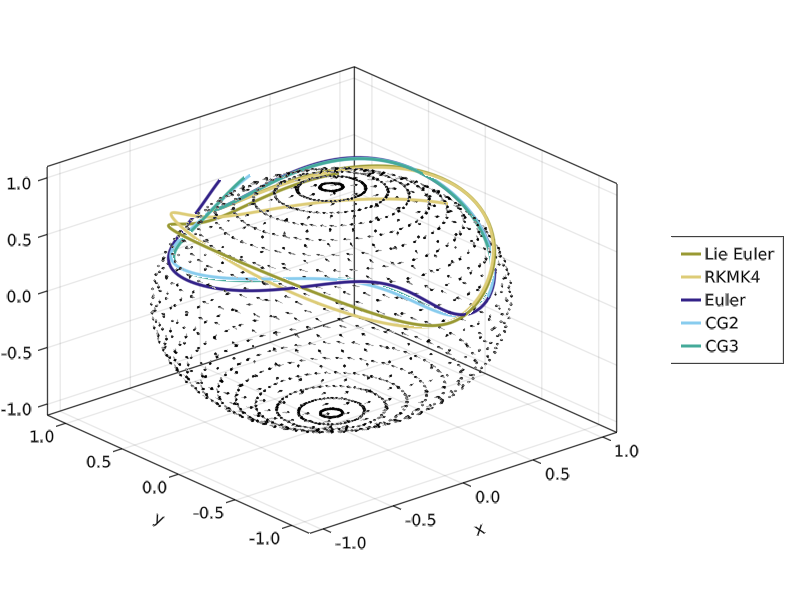
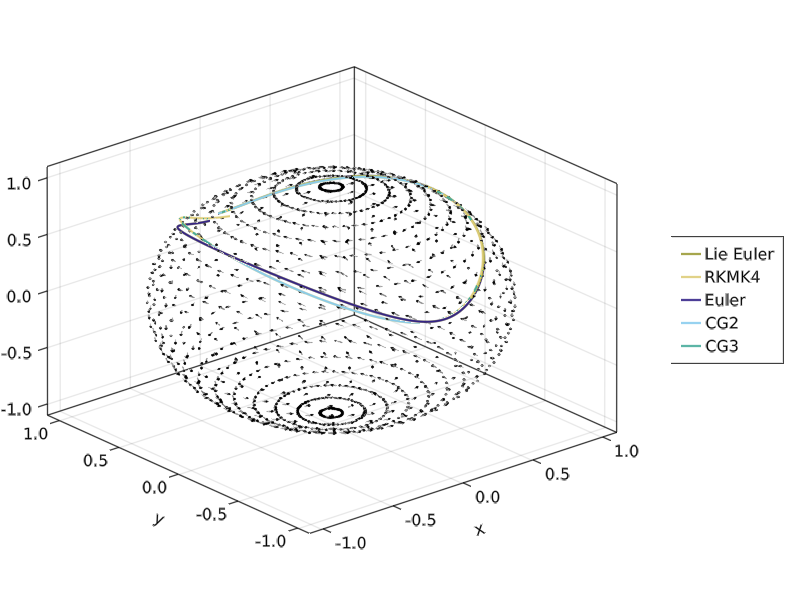
Let's maybe take a u0 that is actually on the sphere.

diff --git a/docs/src/examples.md b/docs/src/examples.md
@@ -69,7 +69,7 @@ acting on data with 2 solvers and direct solvers on the sphere, using 3 other so
 
 ```julia
 S2 = Manifolds.Sphere(2)
-u0 = [0.0, 1/sqrt(9/10), sqrt(1/10)]
+u0 = [0.0, sqrt(9/10), sqrt(1/10)]
 tspan = (0, 20.0)
 
 A_lie = ManifoldDiffEq.LieManifoldDiffEqOperator{Float64}() do u, p, t
@@ -98,7 +98,7 @@ sol_frozen = solve(prob_frozen, alg_manifold_euler, dt=dt)
 sol_frozen_cg2 = solve(prob_frozen, alg_cg2, dt = dt)
 sol_frozen_cg3 = solve(prob_frozen, alg_cg3, dt = dt)
 
-plot_sol(sol,col) = GLMakie.lines!([u[1] for u in sol.u], [u[2] for u in sol.u], [u[3] for u in sol_lie.u]; linewidth = 3, color=col)
+plot_sol(sol,col) = GLMakie.lines!([u[1] for u in sol.u], [u[2] for u in sol.u], [u[3] for u in sol_lie.u]; linewidth = 2, color=col)
 
 l1 = plot_sol(sol_lie, colorant"#999933")
 l2 = plot_sol(sol_rkmk4, colorant"#DDCC77")
